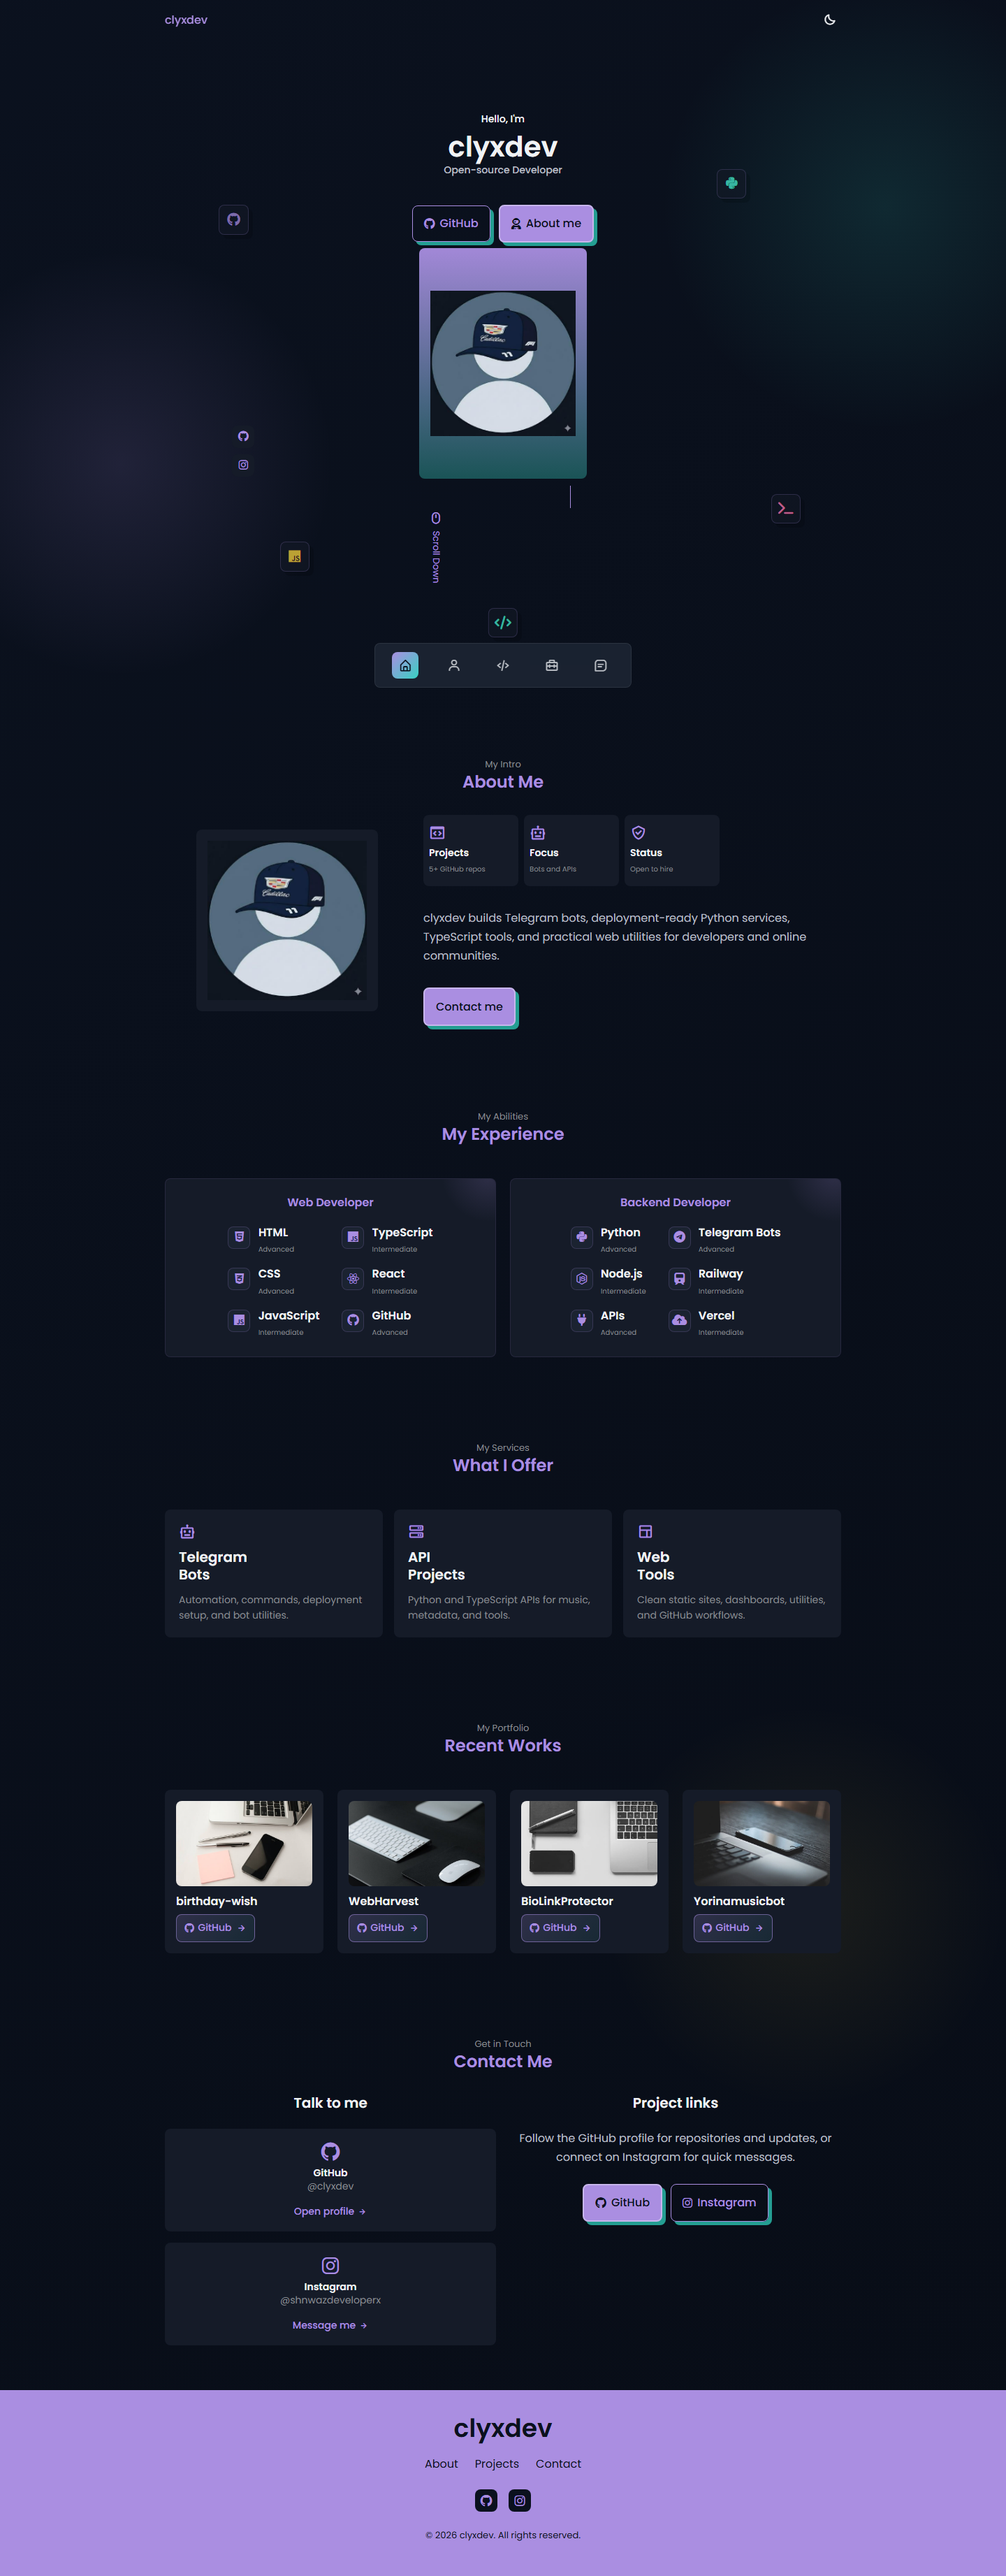
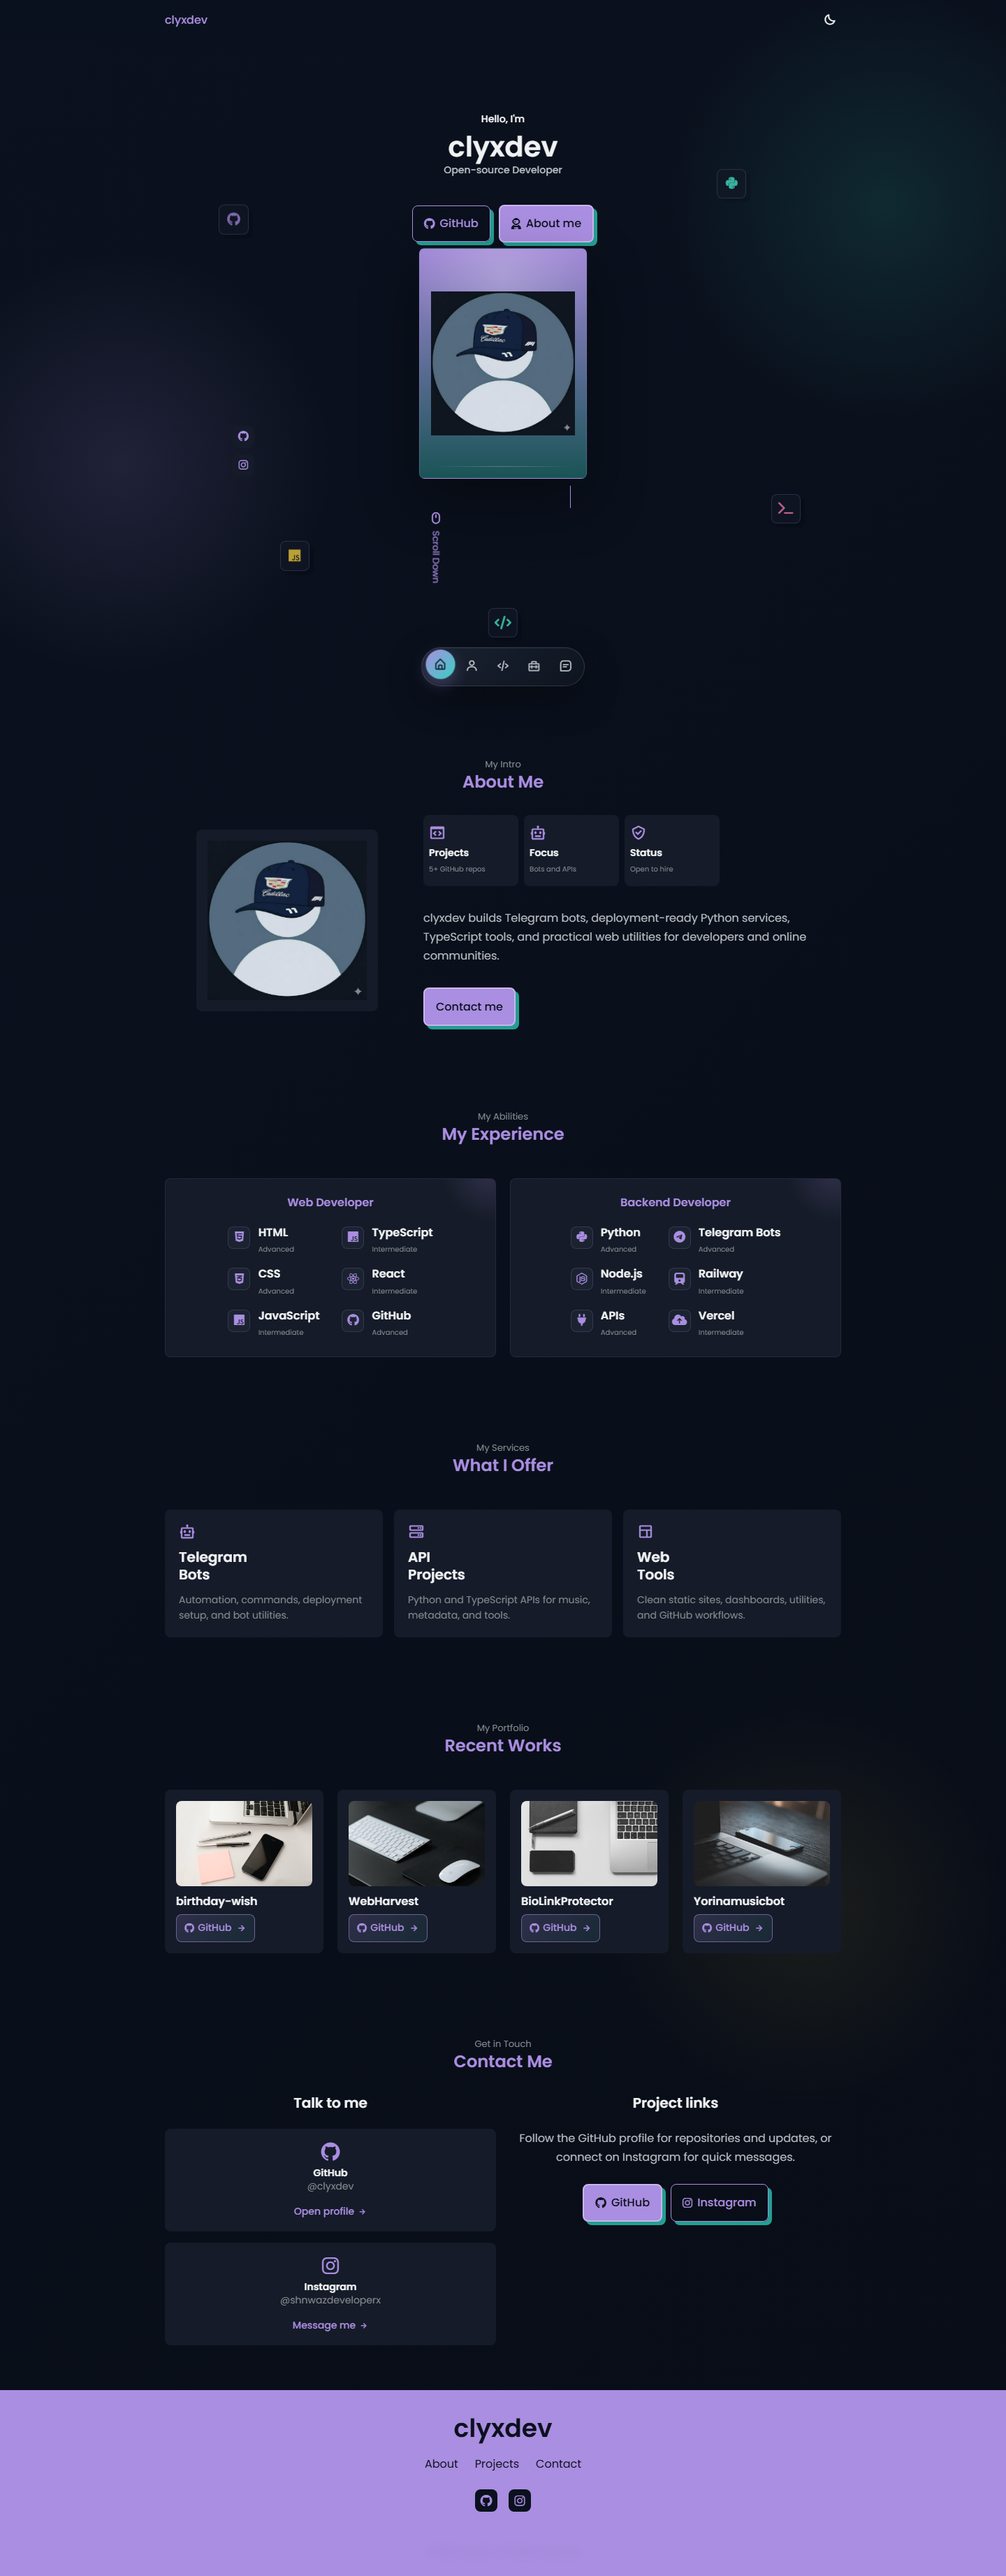
Refine pill nav and scroll motion

diff --git a/assets/css/styles.css b/assets/css/styles.css
@@ -196,44 +196,58 @@ img {
 
 .nav__menu {
   position: fixed;
-  bottom: 1rem;
+  bottom: 1.15rem;
   left: 0;
   right: 0;
-  width: min(92%, 22rem);
+  width: max-content;
+  max-width: calc(100% - 2rem);
   margin-inline: auto;
-  padding: .75rem 1.5rem;
-  border: 1px solid rgba(255, 255, 255, .08);
-  border-radius: 8px;
-  background: rgba(30, 39, 54, .8);
-  backdrop-filter: blur(16px);
+  padding: .4rem;
+  border: 1px solid rgba(255, 255, 255, .12);
+  border-radius: 999px;
+  background: linear-gradient(135deg, rgba(30, 39, 54, .82), rgba(16, 23, 34, .72));
+  box-shadow: 0 18px 50px rgba(0, 0, 0, .36), inset 0 1px 0 rgba(255, 255, 255, .06);
+  backdrop-filter: blur(18px);
+  transition: transform .28s, background .28s, border-color .28s;
 }
 
 .light-theme .nav__menu {
   border-color: rgba(0, 0, 0, .08);
-  background: rgba(255, 255, 255, .85);
+  background: rgba(255, 255, 255, .82);
+  box-shadow: 0 18px 45px rgba(80, 74, 140, .18), inset 0 1px 0 rgba(255, 255, 255, .8);
 }
 
 .nav__list {
   display: flex;
   justify-content: space-between;
   align-items: center;
+  gap: .25rem;
 }
 
 .nav__link {
-  width: 2.4rem;
-  height: 2.4rem;
+  width: 2.55rem;
+  height: 2.55rem;
   display: grid;
   place-items: center;
-  border-radius: 8px;
+  border-radius: 999px;
   color: var(--text-color);
-  font-size: 1.25rem;
-  transition: background .25s, color .25s;
+  font-size: 1.18rem;
+  transition: transform .25s, background .25s, color .25s, box-shadow .25s;
 }
 
 .nav__link:hover,
 .nav__link.active-link {
   background: linear-gradient(135deg, var(--first-color), var(--first-color-alt));
   color: hsl(var(--second-hue), 48%, 8%);
+  box-shadow: 0 8px 22px hsla(var(--first-hue), var(--first-sat), var(--first-lig), .3);
+}
+
+.nav__link:hover {
+  transform: translateY(-2px);
+}
+
+.nav__link.active-link {
+  transform: translateY(-3px) scale(1.03);
 }
 
 .home__container {
@@ -327,6 +341,7 @@ img {
 }
 
 .home__profile {
+  position: relative;
   width: 190px;
   height: 270px;
   display: grid;
@@ -334,15 +349,48 @@ img {
   justify-self: center;
   align-items: end;
   border-radius: 8px;
+  border: 1px solid hsla(var(--first-hue), var(--first-sat), var(--first-lig), .28);
   background: linear-gradient(180deg, hsla(var(--first-hue), var(--first-sat), var(--first-lig), .95), hsla(174, 63%, 52%, .35));
+  box-shadow: 0 30px 80px rgba(0, 0, 0, .38), 0 0 0 1px rgba(255, 255, 255, .04);
   overflow: hidden;
+  animation: float-profile 5.5s ease-in-out infinite;
+}
+
+.home__profile::before {
+  content: "";
+  position: absolute;
+  inset: 0;
+  background: radial-gradient(circle at 50% 12%, rgba(255, 255, 255, .22), transparent 42%);
+  pointer-events: none;
+}
+
+.home__profile::after {
+  content: "";
+  position: absolute;
+  inset: auto 1rem 1rem;
+  height: 1px;
+  background: linear-gradient(90deg, transparent, rgba(255, 255, 255, .45), transparent);
+  opacity: .55;
 }
 
 .home__img {
+  position: relative;
+  z-index: 1;
   width: 100%;
   height: 100%;
   padding: 1rem;
   object-fit: contain;
+}
+
+@keyframes float-profile {
+  0%,
+  100% {
+    transform: translateY(0);
+  }
+
+  50% {
+    transform: translateY(-8px);
+  }
 }
 
 .home__buttons {
@@ -784,6 +832,109 @@ img {
   font-size: var(--smaller-font-size);
 }
 
+.motion-ready .reveal {
+  opacity: 0;
+  transform: translateY(28px);
+  filter: blur(8px);
+  transition: opacity .72s ease, transform .72s ease, filter .72s ease;
+  transition-delay: var(--reveal-delay, 0ms);
+}
+
+.motion-ready .reveal.is-visible {
+  opacity: 1;
+  transform: translateY(0);
+  filter: blur(0);
+}
+
+.motion-ready .home__greeting,
+.motion-ready .home__name,
+.motion-ready .home__education,
+.motion-ready .home__buttons,
+.motion-ready .home__profile {
+  animation: hero-rise .72s ease both;
+}
+
+.motion-ready .home__name {
+  animation-delay: .08s;
+}
+
+.motion-ready .home__education {
+  animation-delay: .16s;
+}
+
+.motion-ready .home__buttons {
+  animation-delay: .24s;
+}
+
+.motion-ready .home__profile {
+  animation-name: hero-rise, float-profile;
+  animation-duration: .72s, 5.5s;
+  animation-delay: .32s, 1.05s;
+  animation-timing-function: ease, ease-in-out;
+  animation-fill-mode: both, none;
+  animation-iteration-count: 1, infinite;
+}
+
+.motion-ready .home__bg-icons i {
+  animation: drift-icon 6s ease-in-out infinite;
+}
+
+.motion-ready .home__bg-icons i:nth-child(2) {
+  animation-delay: .6s;
+}
+
+.motion-ready .home__bg-icons i:nth-child(3) {
+  animation-delay: 1.1s;
+}
+
+.motion-ready .home__bg-icons i:nth-child(4) {
+  animation-delay: 1.6s;
+}
+
+.motion-ready .home__bg-icons i:nth-child(5) {
+  animation-delay: 2.1s;
+}
+
+@keyframes hero-rise {
+  from {
+    opacity: 0;
+    transform: translateY(18px);
+  }
+
+  to {
+    opacity: 1;
+    transform: translateY(0);
+  }
+}
+
+@keyframes drift-icon {
+  0%,
+  100% {
+    translate: 0 0;
+  }
+
+  50% {
+    translate: 0 -10px;
+  }
+}
+
+@media (prefers-reduced-motion: reduce) {
+  *,
+  *::before,
+  *::after {
+    animation-duration: .01ms !important;
+    animation-iteration-count: 1 !important;
+    scroll-behavior: auto !important;
+    transition-duration: .01ms !important;
+  }
+
+  .motion-ready .reveal {
+    opacity: 1;
+    transform: none;
+    filter: none;
+  }
+}
+
 ::-webkit-scrollbar {
   width: .6rem;
   background: var(--container-color);
@@ -800,7 +951,7 @@ img {
   }
 
   .nav__menu {
-    padding-inline: 1rem;
+    max-width: calc(100% - 1rem);
   }
 
   .home__buttons {
@@ -856,7 +1007,7 @@ img {
 
 @media screen and (min-width: 576px) {
   .nav__menu {
-    width: 23rem;
+    width: max-content;
   }
 
   .about__info {

diff --git a/assets/js/main.js b/assets/js/main.js
@@ -3,6 +3,11 @@ const themeToggle = document.getElementById("theme-toggle");
 const footerYear = document.getElementById("footer-year");
 const sections = document.querySelectorAll("section[id]");
 const navLinks = document.querySelectorAll(".nav__link");
+const revealTargets = document.querySelectorAll(
+  ".section__subtitle, .section__title, .about__image, .about__box, .about__description, .about__data .button, .skills__content, .services__card, .work__card, .contact__content, .footer__title, .footer__list, .footer__social, .footer__copy"
+);
+
+document.documentElement.classList.add("motion-ready");
 
 const savedTheme = localStorage.getItem("selected-theme");
 const savedIcon = localStorage.getItem("selected-icon");
@@ -59,6 +64,28 @@ if (themeToggle) {
 if (footerYear) {
   footerYear.textContent = new Date().getFullYear();
 }
+
+revealTargets.forEach((element, index) => {
+  element.classList.add("reveal");
+  element.style.setProperty("--reveal-delay", `${Math.min(index % 4, 3) * 80}ms`);
+});
+
+const revealObserver = new IntersectionObserver(
+  (entries) => {
+    entries.forEach((entry) => {
+      if (entry.isIntersecting) {
+        entry.target.classList.add("is-visible");
+        revealObserver.unobserve(entry.target);
+      }
+    });
+  },
+  {
+    threshold: 0.12,
+    rootMargin: "0px 0px -8% 0px",
+  }
+);
+
+revealTargets.forEach((element) => revealObserver.observe(element));
 
 updateHeader();
 updateActiveLink();
